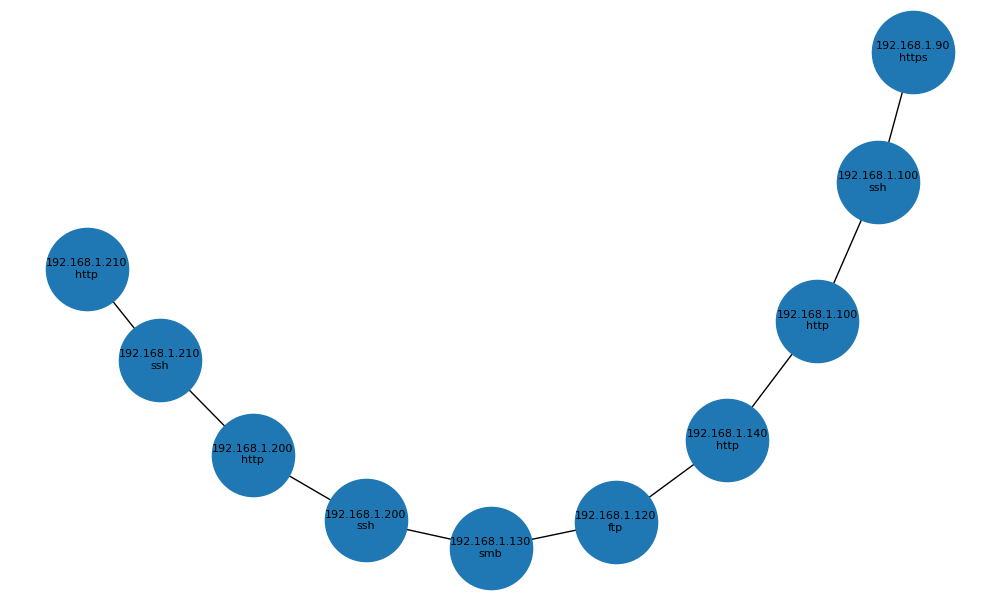
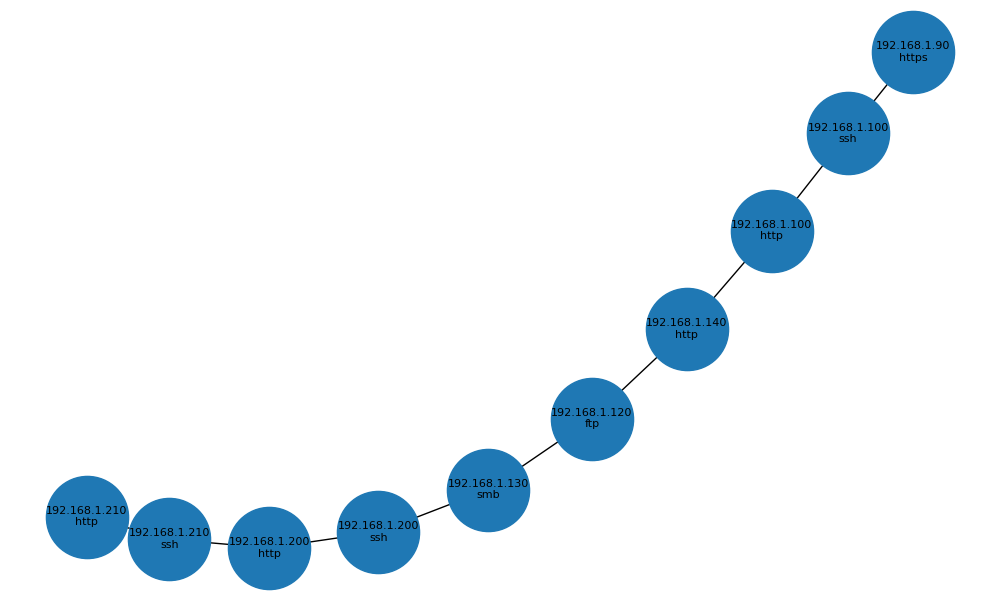
Add final security dashboard features

diff --git a/frontend/app.js b/frontend/app.js
@@ -25,6 +25,7 @@ function showDashboard() {
     loadAll();
     refreshAttackGraph();
     loadAlerts();
+    loadAssetRanking(); 
 }
 
 function showLogin() {
@@ -391,6 +392,8 @@ setInterval(function () {
     if (localStorage.getItem("loggedIn") === "true") {
         getStats();
         loadTopRisks();
+        loadAssetRanking();
+        loadAlerts();
     }
 }, 10000);
 async function loadCVEFeed() {
@@ -681,6 +684,54 @@ async function loadAlerts() {
 
             <p>
                 ${alert.message}
+            </p>
+
+        </div>
+
+        `;
+    });
+}
+async function loadAssetRanking() {
+
+    const response =
+        await fetch(API_URL + "/asset-ranking");
+
+    const data =
+        await response.json();
+
+    const container =
+        document.getElementById("assetRanking");
+
+    container.innerHTML = "";
+
+    data.results.forEach((item, index) => {
+
+        container.innerHTML += `
+
+        <div class="asset-card">
+
+            <div class="asset-rank">
+                #${index + 1}
+            </div>
+
+            <p>
+                <b>Asset:</b>
+                ${item.asset}
+            </p>
+
+            <p>
+                <b>Risk Score:</b>
+                ${item.risk_score}
+            </p>
+
+            <p>
+                <b>Severity:</b>
+                ${item.severity}
+            </p>
+
+            <p>
+                <b>Vulnerability:</b>
+                ${item.vulnerability}
             </p>
 
         </div>

diff --git a/frontend/style.css b/frontend/style.css
@@ -489,3 +489,20 @@ body.dark .alert-card {
     color: #f97316;
     font-weight: bold;
 }
+.asset-card {
+    background: #f8fafc;
+    border-left: 6px solid #ef4444;
+    padding: 16px;
+    border-radius: 12px;
+    margin: 12px 0;
+}
+
+body.dark .asset-card {
+    background: #1e293b;
+}
+
+.asset-rank {
+    font-size: 20px;
+    font-weight: bold;
+    color: #ef4444;
+}

diff --git a/frontend/index.html b/frontend/index.html
@@ -69,6 +69,16 @@
         <h2>Risk Distribution</h2>
         <canvas id="riskChart"></canvas>
     </section>
+    <section class="panel">
+    <div class="section-head">
+        <h2>Asset Risk Ranking</h2>
+        <button onclick="loadAssetRanking()">
+            Refresh Ranking
+        </button>
+    </div>
+
+    <div id="assetRanking"></div>
+</section>
 
     <div class="main-grid">
 

diff --git a/backend/main.py b/backend/main.py
@@ -487,3 +487,29 @@ def alerts():
         "count": len(alert_list),
         "alerts": alert_list[-5:]
     }
[email redacted]("/asset-ranking")
+def asset_ranking():
+
+    data = get_all_vulnerabilities()
+
+    ranking = []
+
+    for vuln in data:
+        ranking.append({
+            "asset": vuln["asset"],
+            "risk_score": vuln.get("cvss_score", 0),
+            "vulnerability": vuln["vulnerability_name"],
+            "severity": vuln["severity"],
+            "cve": vuln.get("cve", "N/A")
+        })
+
+    ranking = sorted(
+        ranking,
+        key=lambda x: x["risk_score"],
+        reverse=True
+    )
+
+    return {
+        "count": len(ranking),
+        "results": ranking[:10]
+    }